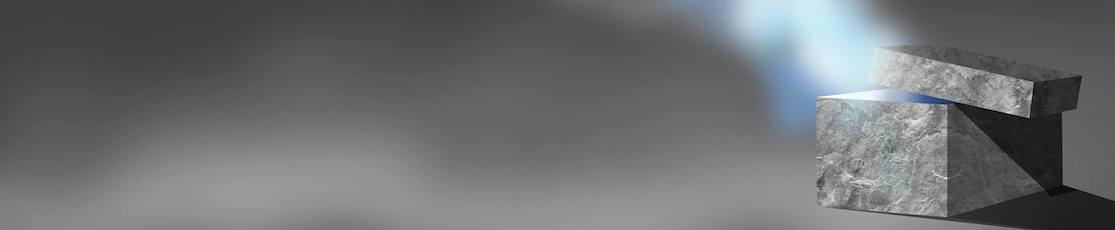
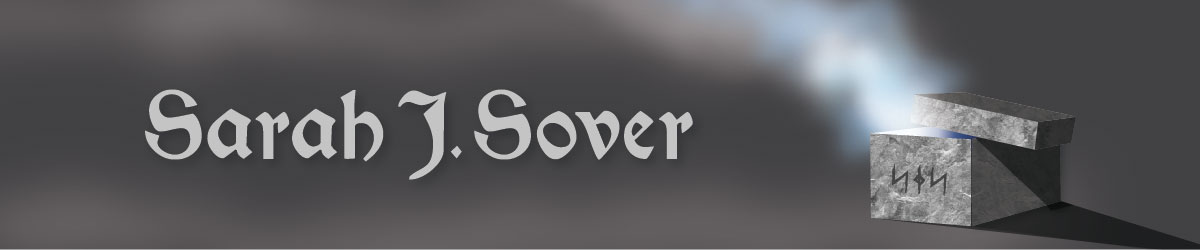
somemore stuff

diff --git a/server.js b/server.js
@@ -38,13 +38,11 @@ app.createRoutes = function() {
     app.routes = { };
     
     app.routes['/'] = function(req, res) {
-        console.log('bob')
     res.setHeader('Content-Type', 'text/html');
         Entry.findOne({}, {}, { sort: { 'created_at' : -1 } }, function(err, entry) {
             if (err) throw err;
                 
             // object of all the users
-            console.log(entry.title);
             res.render('index',{ nav : navigation, footer : footer, post : entry });
         });
     };
@@ -79,7 +77,6 @@ app.createRoutes = function() {
             if (err) throw err;
 
             // object of all the users
-            //console.log(entries);
             res.render('blog-post',{ nav : navigation, footer : footer, post : entries, url : 'http://'+req.host+req.url });
         });
         

diff --git a/public/css/modern-business.css b/public/css/modern-business.css
@@ -10,8 +10,8 @@ html,
 body {
     height: 100%;
     width:100%;
-/*    background-color: dimgrey;*/
-/*     background-image:url('../images/greyBackground.jpg');*/
+/*    background-color: ;*/
+     background-image:url('../images/bg3.jpg');
 /*  background-size:cover;*/
 }
 

diff --git a/public/js/socialPop.js b/public/js/socialPop.js
@@ -1,0 +1,7 @@
+$( document ).ready(function() {
+    $(".pop").click(function(e) {
+        e.preventDefault();
+        var href = $(e.target).attr('href');
+        window.open(href, "tweet", "height=300,width=550,resizable=1") 
+    });   
+});
